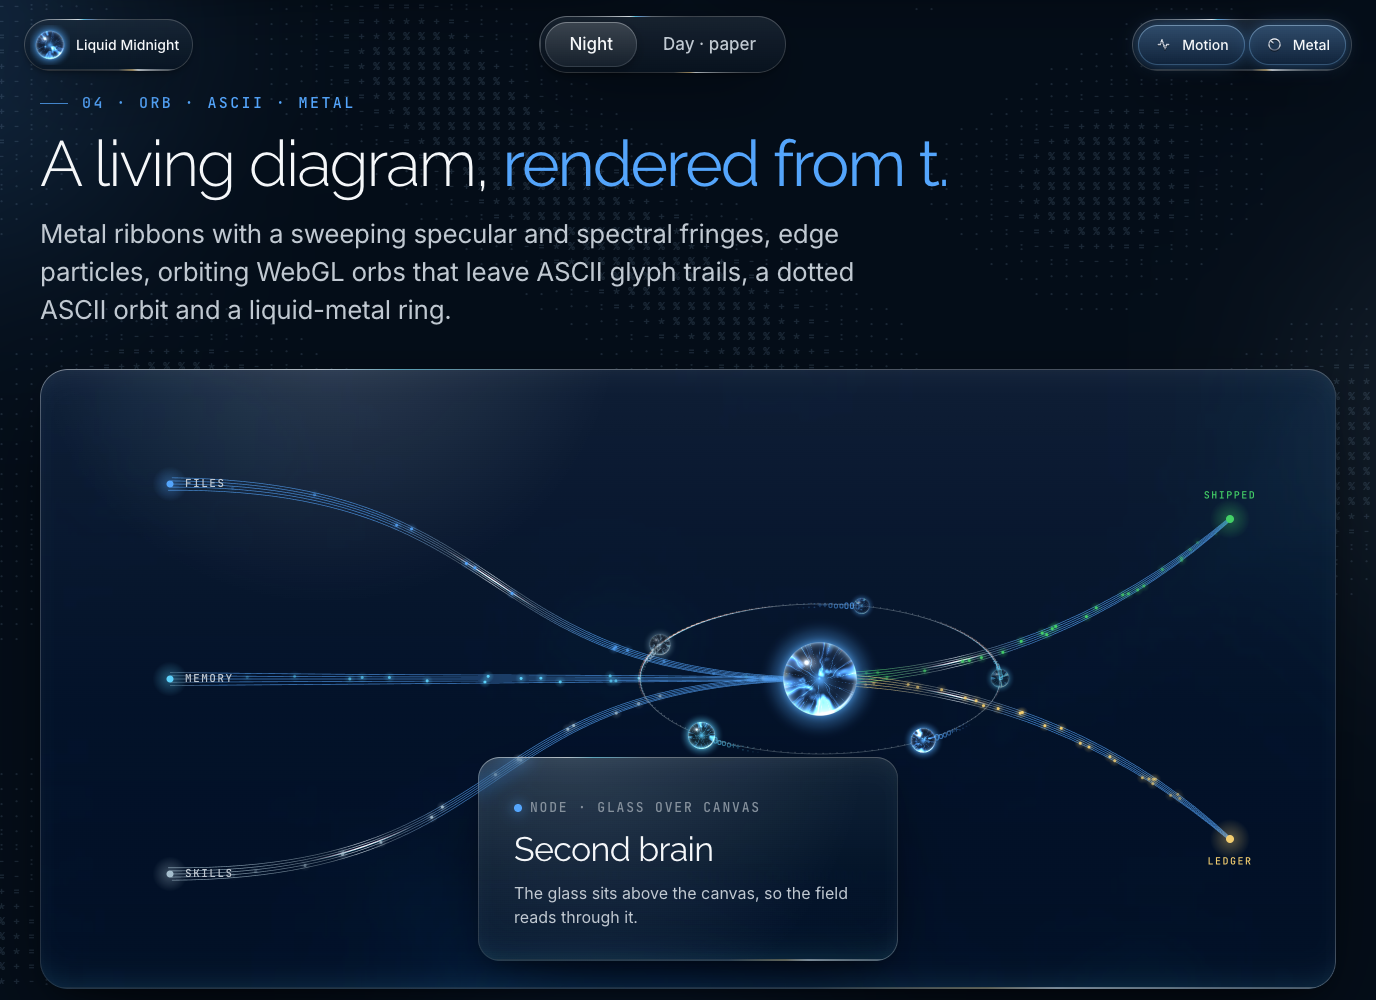
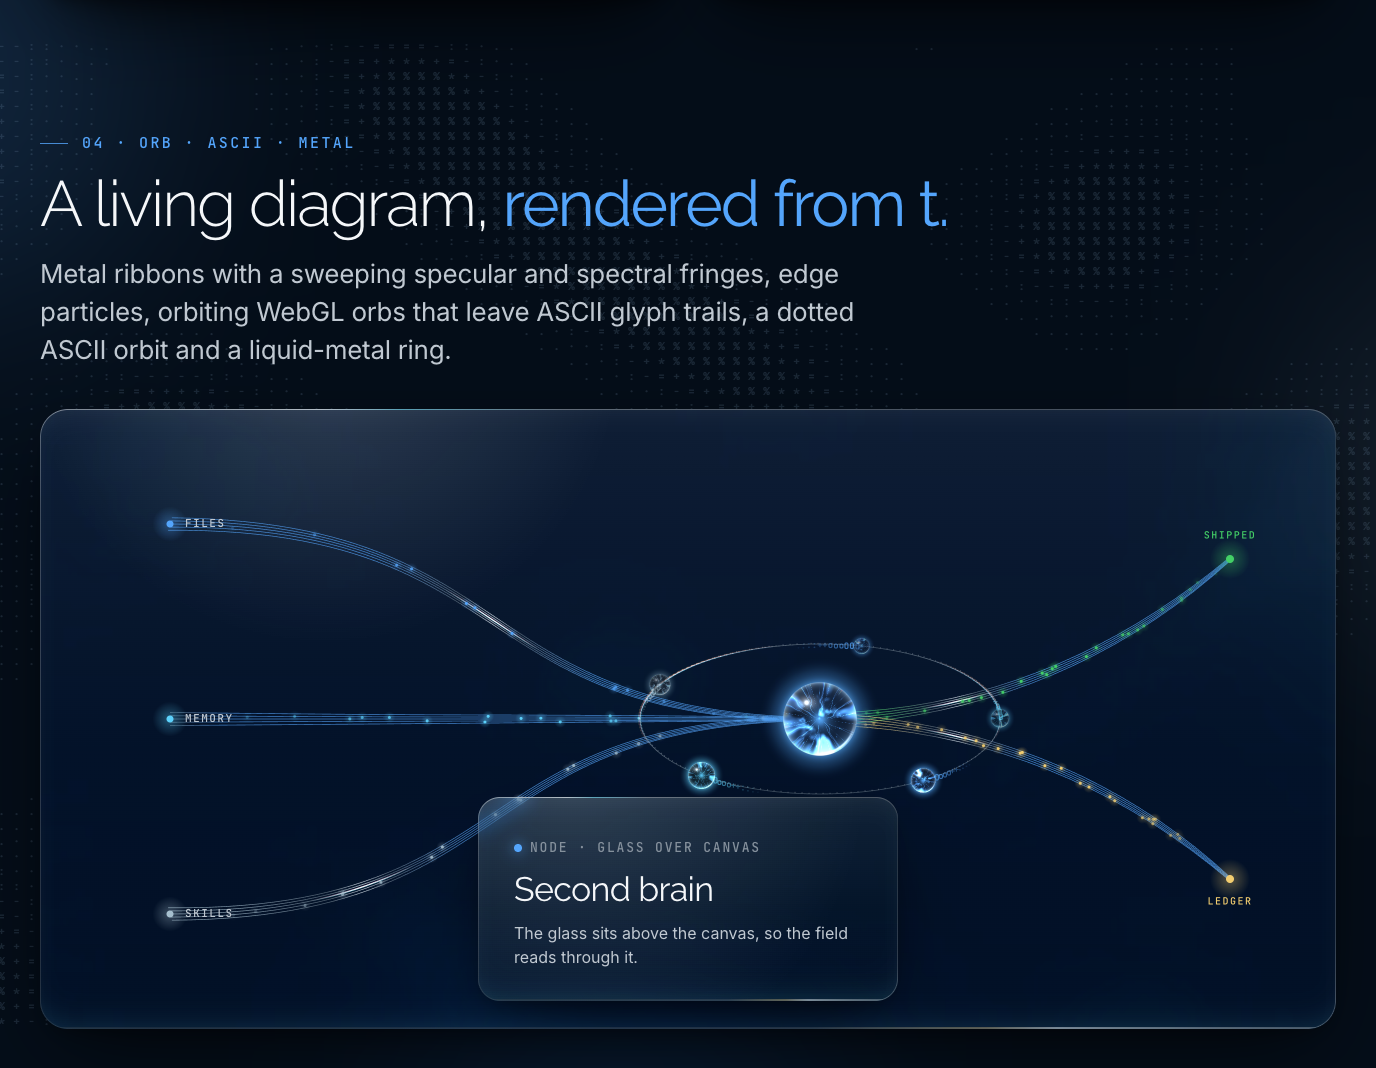
fix: resolve CodeRabbit threads and P20 round-7 findings (BRO-3567)
- render: full-height section captures with the fixed HUD hidden (committed
  renders were cut at 1000 px); renders regenerated
- fileURLToPath for every repo-root path (paths with spaces)
- README: Chromium install step; a browser-resolvable import example
- specimen: narrow-screen layout for the control bar; ?t=0 captures lay out
  the segmented thumbs before painting
- day gold darkened to oklch(0.62 0.13 80) (3.4:1 on the day ground); contrast
  guidance rewritten (a label does not fix contrast); Pencil palette updated
- setMotion mirrors <html data-lm-motion>, so the ambient drift stops with the
  kit's motion switch, not only the OS setting
- metalRing skips a fringe whose radius would go negative
- DESIGN.md: materials need an OKLCH browser (documented); sprite-orb size
  cap and batched-orb transform limits documented
- CI: persist-credentials false, contents: read
- verify: 20 checks (?t=0 thumbs, ambient follows the motion switch)

diff --git a/specimen/index.html b/specimen/index.html
@@ -24,6 +24,7 @@ section>header .lm-title{margin-top:20px;font-size:64px}
 .g2{grid-template-columns:repeat(2,1fr)}.g3{grid-template-columns:repeat(3,1fr)}.g4{grid-template-columns:repeat(4,1fr)}
 /* top bar */
 .bar{position:sticky;top:16px;z-index:10;display:flex;justify-content:space-between;align-items:center;max-width:1440px;margin:16px auto 0;padding:0 56px}
+@media (max-width:760px){.bar{flex-wrap:wrap;justify-content:center;gap:10px;padding:0 12px}main{padding:0 20px 80px}.hero{grid-template-columns:1fr}.hero .lm-hero{font-size:64px}.g2,.g3,.g4{grid-template-columns:1fr}}
 .brand{display:flex;align-items:center;gap:6px;padding:6px 14px 6px 6px;font:500 14px/1 var(--lm-font-sans);color:var(--lm-t1)}
 .brand canvas{width:40px;height:40px;display:block}
 /* hero */
@@ -357,7 +358,12 @@ swatches();
 BG.fit();
 addEventListener("resize", () => { BG.fit(); CAPTURE ? loop.renderAt(loop.t) : loop.invalidate(); }); // fit() clears the canvas
 window.renderAt = (t) => loop.renderAt(t);
-if (CAPTURE) { loop.renderAt(checkTime(Q.get("t"))); window.__ready = true; }
+if (CAPTURE) {
+  // lay out the segmented thumbs before painting: a ?t=0 capture paints without running step()
+  modeSeg.init(); demoSeg.init(); modeSeg.step(0); demoSeg.step(0);
+  loop.renderAt(checkTime(Q.get("t")));
+  window.__ready = true;
+}
 else loop.start();
 </script>
 </body>

diff --git a/kit/core.js b/kit/core.js
@@ -32,9 +32,16 @@ let motionPinned = false;
 export function setMotion(on) {
   motionPinned = on !== null && on !== undefined;
   MOTION = motionPinned ? !!on : RMQ ? !RMQ.matches : true;
+  reflectMotion();
 }
+/* mirror the state on <html data-lm-motion="on|off"> so CSS motion (ambient drift) follows the kit, not only the OS */
+function reflectMotion() {
+  if (typeof document !== "undefined" && document.documentElement?.dataset) document.documentElement.dataset.lmMotion = MOTION ? "on" : "off";
+}
+reflectMotion();
 RMQ?.addEventListener?.("change", (e) => {
   if (!motionPinned) MOTION = !e.matches;
+  reflectMotion();
 });
 
 export const TAU = Math.PI * 2;

diff --git a/tokens/tokens.css b/tokens/tokens.css
@@ -109,7 +109,7 @@
   --lm-cyan: #008fba;
   --lm-green: #0e9a3f;
   --lm-coral: #db2d27;
-  --lm-gold: #bb881a;
+  --lm-gold: #af7c00;
   --lm-warm: #e27900;
   --lm-glass: #ffffff8f;
   --lm-glass-heavy: #ffffffd1;
@@ -138,7 +138,7 @@
     --lm-cyan: oklch(0.6 0.13 225);
     --lm-green: oklch(0.6 0.17 148);
     --lm-coral: oklch(0.58 0.21 28);
-    --lm-gold: oklch(0.66 0.13 80);
+    --lm-gold: oklch(0.62 0.13 80);
     --lm-warm: oklch(0.68 0.17 60);
     --lm-glass: oklch(1 0 0 / 0.56);
     --lm-glass-heavy: oklch(1 0 0 / 0.82);

diff --git a/scripts/tokens.test.js b/scripts/tokens.test.js
@@ -1,7 +1,8 @@
 import { expect, test } from "bun:test";
 import { readFileSync } from "node:fs";
+import { fileURLToPath } from "node:url";
 
-const ROOT = new URL("..", import.meta.url).pathname;
+const ROOT = fileURLToPath(new URL("..", import.meta.url));
 const tokens = JSON.parse(readFileSync(`${ROOT}tokens/tokens.json`, "utf8"));
 const css = readFileSync(`${ROOT}tokens/tokens.css`, "utf8");
 const hue = (v) => Number(v.match(/oklch\(\s*[\d.]+\s+[\d.]+\s+([\d.]+)/)[1]);

diff --git a/kit/metal.js b/kit/metal.js
@@ -148,6 +148,7 @@ export function metalRing(x, y, R, t, lw = 2, a = 1, ry = R, spd = 0.9) {
       ]) {
         ctx.globalAlpha = g * a * v * 0.55;
         ctx.strokeStyle = c;
+        if (R + d <= 0 || ry + (d * ry) / R <= 0) continue; // a ring thinner than its fringe offset: skip that fringe
         ctx.beginPath();
         ctx.ellipse(x, y, R + d, ry + (d * ry) / R, 0, a0, a1);
         ctx.stroke();

diff --git a/scripts/serve.test.js b/scripts/serve.test.js
@@ -1,7 +1,8 @@
 import { expect, test } from "bun:test";
+import { fileURLToPath } from "node:url";
 import { resolvePublic } from "./serve.mjs";
 
-const ROOT = new URL("..", import.meta.url).pathname;
+const ROOT = fileURLToPath(new URL("..", import.meta.url));
 
 test("serves public asset directories", () => {
   expect(resolvePublic("/specimen/")).toMatch(/specimen\/index\.html$/);

diff --git a/css/materials.css b/css/materials.css
@@ -553,3 +553,7 @@
     animation: none;
   }
 }
+/* the kit's motion switch (setMotion) stops CSS motion too */
+[data-lm-motion="off"] .lm-ambient i {
+  animation: none;
+}

diff --git a/DESIGN.md b/DESIGN.md
@@ -75,7 +75,7 @@ OKLCH is canonical. Hex values are sRGB fallbacks, emitted first in `tokens/toke
 | `--lm-cyan` | `oklch(0.81 0.12 225)` | `#5cd1fb` | `oklch(0.6 0.13 225)` | `#008fba` | Caustics, secondary flows, glass bottom edge. |
 | `--lm-green` | `oklch(0.76 0.19 148)` | `#43d066` | `oklch(0.6 0.17 148)` | `#0e9a3f` | Retained / positive / write path. |
 | `--lm-coral` | `oklch(0.67 0.21 28)` | `#fc5045` | `oklch(0.58 0.21 28)` | `#db2d27` | Loss / failure counters. |
-| `--lm-gold` | `oklch(0.86 0.12 88)` | `#f2cd6f` | `oklch(0.66 0.13 80)` | `#bb881a` | Proven, built or ledgered paths only; merge commits. |
+| `--lm-gold` | `oklch(0.86 0.12 88)` | `#f2cd6f` | `oklch(0.62 0.13 80)` | `#af7c00` | Proven, built or ledgered paths only; merge commits. |
 | `--lm-warm` | `oklch(0.79 0.16 65)` | `#ffa234` | `oklch(0.68 0.17 60)` | `#e27900` | Warnings, human attention. |
 | `--lm-glass` | `oklch(0.24 0.03 248 / 0.5)` | `#14212d80` | `oklch(1 0 0 / 0.56)` | `#ffffff8f` | Base glass tint (HUD glass). |
 | `--lm-glass-heavy` | `oklch(0.24 0.03 248 / 0.86)` | `#14212ddb` | `oklch(1 0 0 / 0.82)` | `#ffffffd1` | Reduced-transparency glass. |
@@ -101,6 +101,8 @@ Liquid-metal palette:
 ---
 
 ## 5. Materials (exact CSS: `css/materials.css`)
+
+The material recipes use literal `oklch()` colours (gradients and shadows with alpha), so they need an OKLCH-capable browser: Safari 15.4+, Chrome/Edge 111+, Firefox 113+. The tokens carry hex fallbacks; the materials do not, by choice (duplicating every gradient in hex would double the file for browsers this showcase style does not target).
 
 All rims share one mechanism:
 - a `::after` ring with 1.2 px padding;
@@ -175,6 +177,7 @@ All drift `ease-in-out infinite alternate`. In capture mode, freeze them or driv
   ORB.attach(canvas); ORB.begin(ctx); orb(x, y, r, C.blue, t); ORB.end();
   ```
   This batches every orb in one WebGL pass. Called outside a batch, `orb()` renders a 256² sprite. With no WebGL it calls `orb2d()`.
+- **Limits:** outside a batch, an orb renders through one shared 256² sprite, so a sprite orb larger than about 128 css px at 2× DPR is upscaled and softens. Batch large hero orbs. Batched orbs follow translation and uniform scale only: a rotated or non-uniformly scaled context is not supported (draw orbs before applying such transforms).
 - **Sizing:** the visible sphere radius is .62 r; the sprite spans ±1.7 sphere radii, so its side is 3.4 × the sphere radius (1.7 × its diameter). The batch layer is an absolutely positioned overlay at the canvas's content box, inserted right after it, so the canvas's offset parent must be positioned (e.g. a `position: relative` wrapper); a `position: fixed` canvas gets a fixed layer. Each source canvas gets its own layer, released when the canvas leaves the DOM, shadow roots included (or with `ORB.detach(cv)`). CSS transforms on the canvas are not followed: transform a wrapper that contains both, or skip `attach` and use the sprite path.
 - **Pencil:** `design/shaders/orb.glsl` is the same shader as a pen.dev shader fill. Use a **square** node whose side is 3.4 × the sphere radius you want; non-square nodes draw an ellipse.
 
@@ -292,9 +295,9 @@ Measured contrast (WCAG 2), text on ground and on surface:
 | blue | 7.6 | 6.9 | 4.5 | 4.8 |
 | green | 9.7 | 8.9 | **3.4** | 3.6 |
 | coral | 5.9 | 5.4 | 4.3 | 4.7 |
-| gold | 12.8 | 11.7 | **2.9** | 3.1 |
+| gold | 12.8 | 11.7 | 3.4 | 3.6 |
 
-- In day mode, use `t3`, green, coral and gold only for large text (≥ 24 px, 3:1) or with a label. For small metadata, put `t3` on `surface`.
+- In day mode, `green` and `gold` reach only 3:1 on the ground, so use them for large text (≥ 24 px) or as non-text marks; never for body or small labels. `t3` and `coral` sit just under 4.5:1 on the day ground: large text there, or small text on `surface` (≥ 4.6:1). A label next to a colour does not make low-contrast text readable; it only stops colour being the sole carrier of meaning.
 - Glass sits on a live field, so check contrast against the *darkest and brightest* frames. Keep text on glass at t1/t2. If the field gets bright, raise the tint, do not shrink the type.
 - **Reduced transparency:** glass becomes `--lm-glass-heavy` with no backdrop filter (restated last in the CSS, so no material beats it).
 - **More contrast:** opaque `--lm-surface`, a 1.5 px `t2` outline, and no rim.

diff --git a/README.md b/README.md
@@ -20,20 +20,25 @@ A reusable style system distilled from the Agent Workspaces keynote, its reels, 
 
 ```bash
 bun install
+bunx playwright install chromium   # once: the browser used by `render` and `verify`
 bun run serve      # http://localhost:4317/specimen/  (?mode=day, ?t=6 for a deterministic frame)
 bun run render     # re-render docs/renders/*.png (night + day) with headless Chromium
 bun run tokens     # regenerate tokens.css + DESIGN.md tables after editing tokens.json
 bun run check      # tokens up to date, Biome, tests
 ```
 
+Copy (or vendor) the repo into your site as `liquid-midnight/`, serve it over http (ES modules do not load from `file://`), then:
+
 ```html
-<link rel="stylesheet" href="liquid-midnight/tokens/tokens.css">
-<link rel="stylesheet" href="liquid-midnight/css/materials.css">
+<link rel="stylesheet" href="./liquid-midnight/tokens/tokens.css">
+<link rel="stylesheet" href="./liquid-midnight/css/materials.css">
 <div class="lm-glass lm-card"><span class="lm-tag"><b></b>Layer 01</span><h3 class="lm-card-title">Primer</h3></div>
 <script type="module">
-  import { use, readColors, createLoop, asciiBackground, orb, metalRing } from "liquid-midnight/kit";
+  import { use, readColors, createLoop, asciiBackground, orb, metalRing } from "./liquid-midnight/kit/index.js";
 </script>
 ```
+
+With a bundler, the package exports `liquid-midnight/kit`, `liquid-midnight/tokens.css` and `liquid-midnight/materials.css`. The `liquid-midnight` skill in [broomva/skills](https://github.com/broomva/skills) installs the same assets with a starter scene.
 
 ## Renders
 
